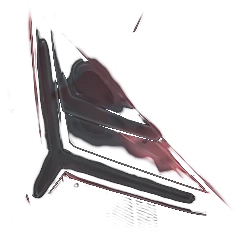
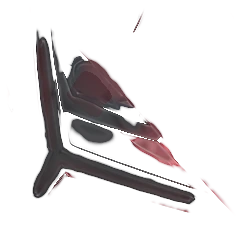
Beyond Factory: studio-lights render of the burgundy Lamborghini
Same pipeline: baked-in ring retouched out, 1.6:1 / 4:5 crops, headlight
off patches regenerated (geometry identical to the previous render).

diff --git a/src/data/site.ts b/src/data/site.ts
@@ -101,7 +101,8 @@ export const site = {
 
   // Brand storytelling section (creative director, 2026-10-10; Alain Class
   // reference). Vehicle: the burgundy widebody supercar (creative director,
-  // 2026-10-11; original in client-photos/philosophy/). Its own baked-in halo
+  // 2026-10-12 studio-lights render; original in
+  // client-photos/philosophy/burgundy-supercar-studio.png). Its own baked-in halo
   // ring was retouched out so the section's animated arc replaces it at the
   // same geometry. Crops: desktop 1.6:1, mobile 4:5, whole car wing-to-splitter.
   philosophy: {
@@ -114,7 +115,7 @@ export const site = {
       url: null as string | null,
     },
     image: {
-      alt: 'Burgundy widebody supercar with a tall rear wing, seen from above and in front under studio light',
+      alt: 'Burgundy widebody Lamborghini with a tall rear wing, seen from above and in front under studio lights',
       desktop: { jpg: `${philosophy1600} 1600w, ${philosophy2016} 2016w`, webp: `${philosophy1600Webp} 1600w, ${philosophy2016Webp} 2016w`, src: philosophy1600, width: 1600, height: 1000 },
       mobile: { jpg: `${philosophyMobile800} 800w, ${philosophyMobile1008} 1008w`, webp: `${philosophyMobile800Webp} 800w, ${philosophyMobile1008Webp} 1008w`, width: 800, height: 1000 },
     },
